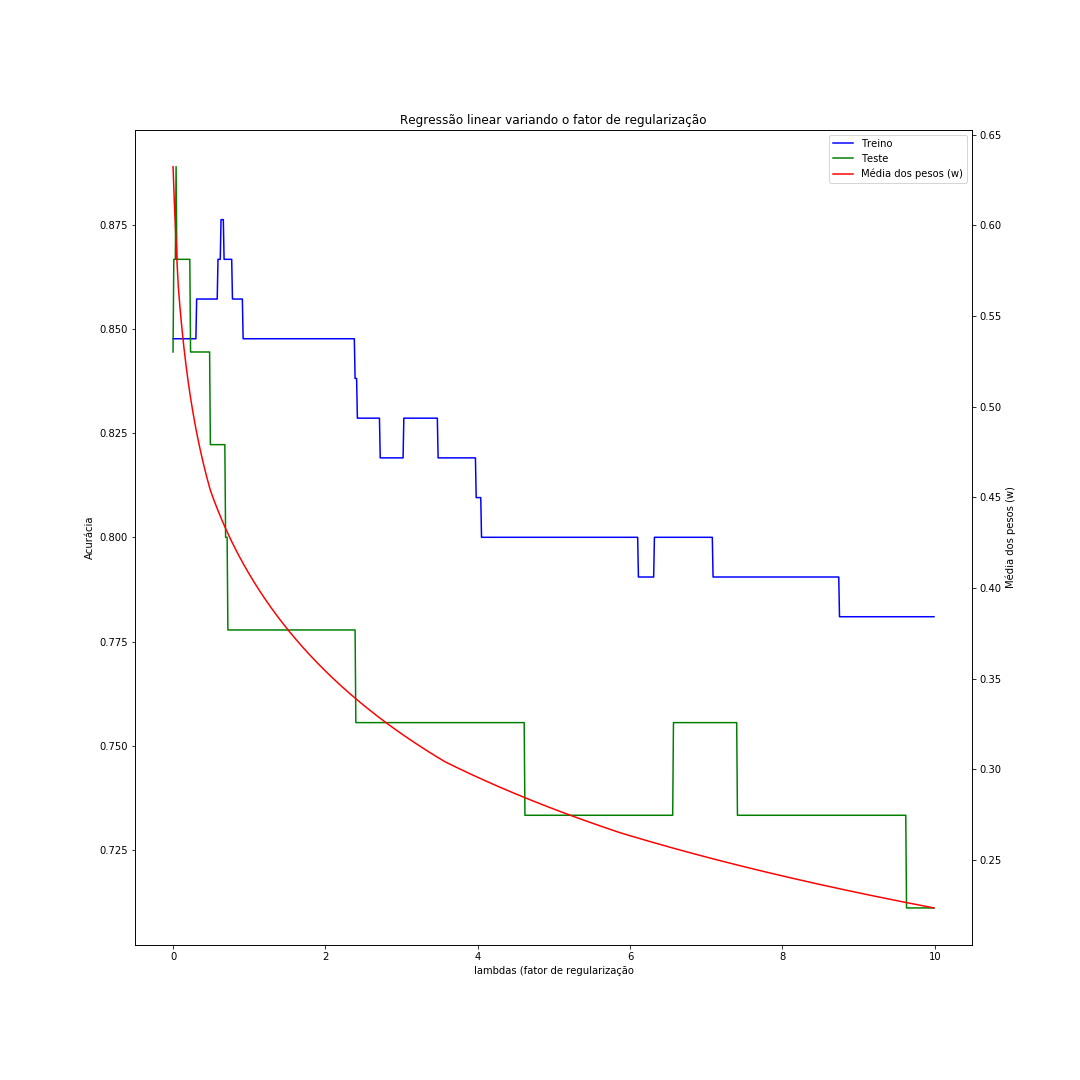
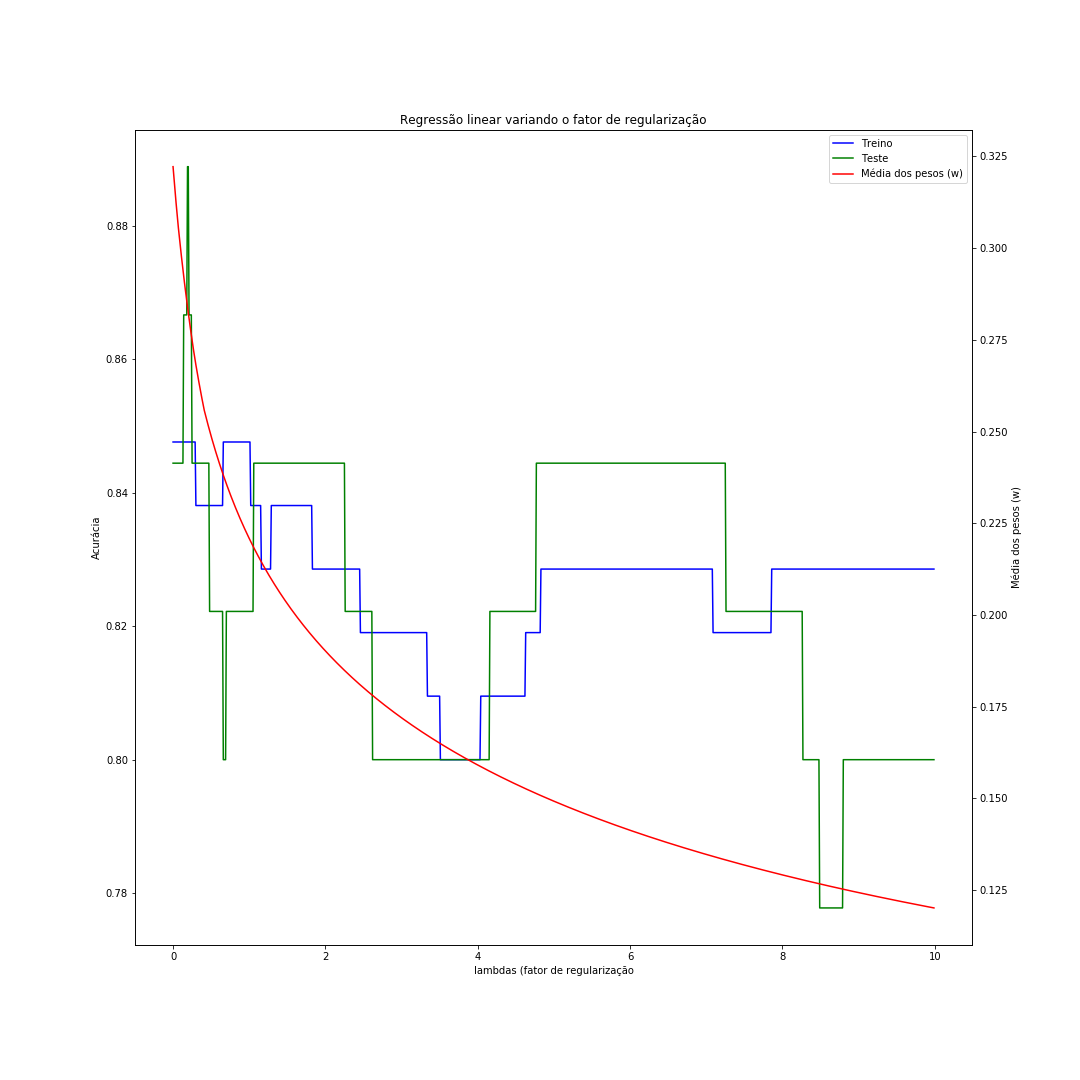
falta multiclass logistico

diff --git a/utils.py b/utils.py
@@ -67,13 +67,14 @@ def z_score(X_train, X_test, cols=None):
         X_test[:,col] = (X_test[:,col] - mean_train)/std_train
     return X_train, X_test
     
-def min_max(X_train, X_test, cols=None):
+def min_max(X_train, X_test, cols=None, slack=0.5):
     """ Aplica a normalização min max
     
     Arguments:
         X_train {Matriz} -- Matriz de atributos de treinamento
         X_test {Matriz} -- Matriz de atributos de teste
         cols {list} -- colunas a ser aplicada a normalização
+        slack {float} -- multiplicador para o valor de máximo e mínimo (1+slack)
     
     Returns:
         Matriz -- Matriz de atributos dos exemplos de treino transformada
@@ -82,10 +83,10 @@ def min_max(X_train, X_test, cols=None):
     X_train = np.copy(X_train)
     X_test = np.copy(X_test)
     if cols is None:
-        cols = np.arange(1,X_train.shape[1], dtype=int)
+        cols = np.arange(0,X_train.shape[1], dtype=int)
     for col in cols:
-        min_train = np.min(X_train[:,col])
-        max_train = np.max(X_train[:,col])
+        min_train = np.min(X_train[:,col])*(1 + slack)
+        max_train = np.max(X_train[:,col])*(1 + slack)
         # normalizando os exemplos de treinamento
         X_train[:,col] = (X_train[:,col] - min_train)/(max_train - min_train)
         # normalizando os exemplos de teste
@@ -111,7 +112,7 @@ def completar_com(X_train, X_test, func, cols=None):
     X_train = np.copy(X_train)
     X_test = np.copy(X_test)
     if cols is None:
-        cols = np.arange(1,X_train.shape[1], dtype=int)
+        cols = np.arange(0,X_train.shape[1], dtype=int)
     for col in cols:
         val = func(X_train[~np.isnan(X_train[:,col]), col])
         X_train[np.isnan(X_train[:,col]), col] = val

diff --git a/regressao_linear.py b/regressao_linear.py
@@ -15,11 +15,11 @@ def regressao_linear(X, y, lamdba=0):
         [W] -- Matriz de pesos 
     """
     # Adicionadno a coluna x_0 que será multiplicada com o viés (bias)
-    X = np.concatenate((np.ones((len(X),1)), X), axis=1)
+    X = np.column_stack((np.ones((len(X),1)), X))
     _, d = np.shape(X)
     return np.linalg.inv(X.T.dot(X) + lamdba*np.identity(d)).dot(X.T).dot(y)
 
-def preditor_linear(w, X):
+def preditor_linear(X, w):
     """ Preditor da função linear estimada
 
     Arguments:
@@ -30,7 +30,7 @@ def preditor_linear(w, X):
         classe -- classe estimada
     """
     # Adicionadno a coluna x_0 que será multiplicada com o viés (bias)
-    X = np.concatenate((np.ones((len(X),1)), X), axis=1)
+    X = np.column_stack((np.ones((len(X),1)), X))
 
     if len(np.shape(w)) < 2:
         y_hat = np.sum(w*X, axis=1)
@@ -56,8 +56,8 @@ def plot_regularizacao(X_train, y_train, X_test, y_test,
         lamdba = i/split_n
 
         w = regressao_linear(X_train, y_train, lamdba=lamdba)
-        y_hat_test = preditor_linear(w, X_test)
-        y_hat_train = preditor_linear(w, X_train)
+        y_hat_test = preditor_linear(X_test, w)
+        y_hat_train = preditor_linear(X_train, w)
         
         w_means.append(np.mean(np.abs(w)))
         lamdbas.append(lamdba)

diff --git a/atividade1-iris.py b/atividade1-iris.py
@@ -53,21 +53,19 @@ if __name__ == "__main__":
     w = regressao_linear(X_train, y_train)
     print('dimensão de w: ', np.shape(w))
 
-    y_hat = preditor_linear(w, X_test)
+    y_hat = preditor_linear(X_test, w)
     _ = acuracia(y_hat, y_test)
 
     # Normalizando com z_score
-    X_z_score = z_score(X, cols=[0, 1, 2, 3])
-    X_train, y_train, X_test, y_test = divide_dataset(X_z_score, y)
-    w = regressao_linear(X_train, y_train)
-    y_hat = preditor_linear(w, X_test)
+    X_z_score_train, X_z_score_test = z_score(X_train, X_test, cols=[0, 1, 2, 3])
+    w = regressao_linear(X_z_score_train, y_train)
+    y_hat = preditor_linear(X_z_score_test, w)
     _ = acuracia(y_hat, y_test)
 
     # Normalizando com min max
-    X_min_max = min_max(X, cols=[0, 1, 2, 3])
-    X_train, y_train, X_test, y_test = divide_dataset(X_min_max, y)
-    w = regressao_linear(X_train, y_train)
-    y_hat = preditor_linear(w, X_test)
+    X_min_max_train, X_min_max_test = min_max(X_train, X_test, cols=[0, 1, 2, 3])
+    w = regressao_linear(X_min_max_train, y_train)
+    y_hat = preditor_linear(X_min_max_test, w)
     _ = acuracia(y_hat, y_test)
 
     # Com regularização

diff --git a/atividade1-hepatitis.py b/atividade1-hepatitis.py
@@ -76,21 +76,21 @@ if __name__ == "__main__":
     print('Dimensão do treino e teste:', np.shape(X_train), np.shape(X_test))
     w = regressao_linear(X_train, y_train)
     print('dimensão de w: ', np.shape(w))
-    y_hat = preditor_linear(w, X_test)
+    y_hat = preditor_linear(X_test, w)
     print('Regressão linear s/normalização:')
     _ = acuracia(y_hat, y_test)
 
     # Normalizando com z_score
     X_z_score_train, X_z_score_test = z_score(X_train, X_test)
     w = regressao_linear(X_z_score_train, y_train)
-    y_hat = preditor_linear(w, X_z_score_test)
+    y_hat = preditor_linear(X_z_score_test, w)
     print('Regressão linear z_score:')
     _ = acuracia(y_hat, y_test)
 
     # Normalizando com min max
-    X_min_max_train, X_min_max_test = min_max(X_train, X_test)
+    X_min_max_train, X_min_max_test = min_max(X_train, X_test, slack=2)
     w = regressao_linear(X_train, y_train)
-    y_hat = preditor_linear(w, X_min_max_test)
+    y_hat = preditor_linear(X_min_max_test, w)
     print('Regressão linear min_max:')
     _ = acuracia(y_hat, y_test)
 

diff --git a/atividade1-diabetes.py b/atividade1-diabetes.py
@@ -83,21 +83,21 @@ if __name__ == "__main__":
 
     w = regressao_linear(X_train, y_train)
     print('dimensão de w: ', np.shape(w))
-    y_hat = preditor_linear(w, X_test)
+    y_hat = preditor_linear(X_test, w)
     print('Regressão linear s/normalização:')
     _ = acuracia(y_hat, y_test)
 
     # Normalizando com z_score
     X_z_score_train, X_z_score_test = z_score(X_train, X_test)
     w = regressao_linear(X_z_score_train, y_train)
-    y_hat = preditor_linear(w, X_z_score_test)
+    y_hat = preditor_linear(X_z_score_test, w)
     print('Regressão linear z_score:')
     _ = acuracia(y_hat, y_test)
 
     # Normalizando com min max
     X_min_max_train, X_min_max_test = min_max(X_train, X_test)
     w = regressao_linear(X_train, y_train)
-    y_hat = preditor_linear(w, X_min_max_test)
+    y_hat = preditor_linear(X_min_max_test, w)
     print('Regressão linear min_max:')
     _ = acuracia(y_hat, y_test)
 

diff --git a/regressao_logistica.py b/regressao_logistica.py
@@ -67,7 +67,7 @@ def regressao_logistica(X, y, taxa_aprendizado, max_iteracoes=100, tolerancia=1e
     Returns:
         matriz -- Matriz de pesos W treinada
     """
-    X = np.concatenate((np.ones((len(X),1)), X), axis=1)
+    X = np.column_stack((np.ones((len(X),1)), X))
     _, d = np.shape(X)
 
     # Inicializa a matriz de pesos em W_0
@@ -92,7 +92,7 @@ def preditor_logistico(X, w):
     Returns:
         Vetor -- y_hat - Vetor com as classes preditas
     """
-    X = np.concatenate((np.ones((len(X),1)), X), axis=1)
+    X = np.column_stack((np.ones((len(X),1)), X))
     y_hat = logit(np.sum(w*X, axis=1))
     y_hat[y_hat >= 0.5] = 1
     y_hat[y_hat < 0.5] = -1
